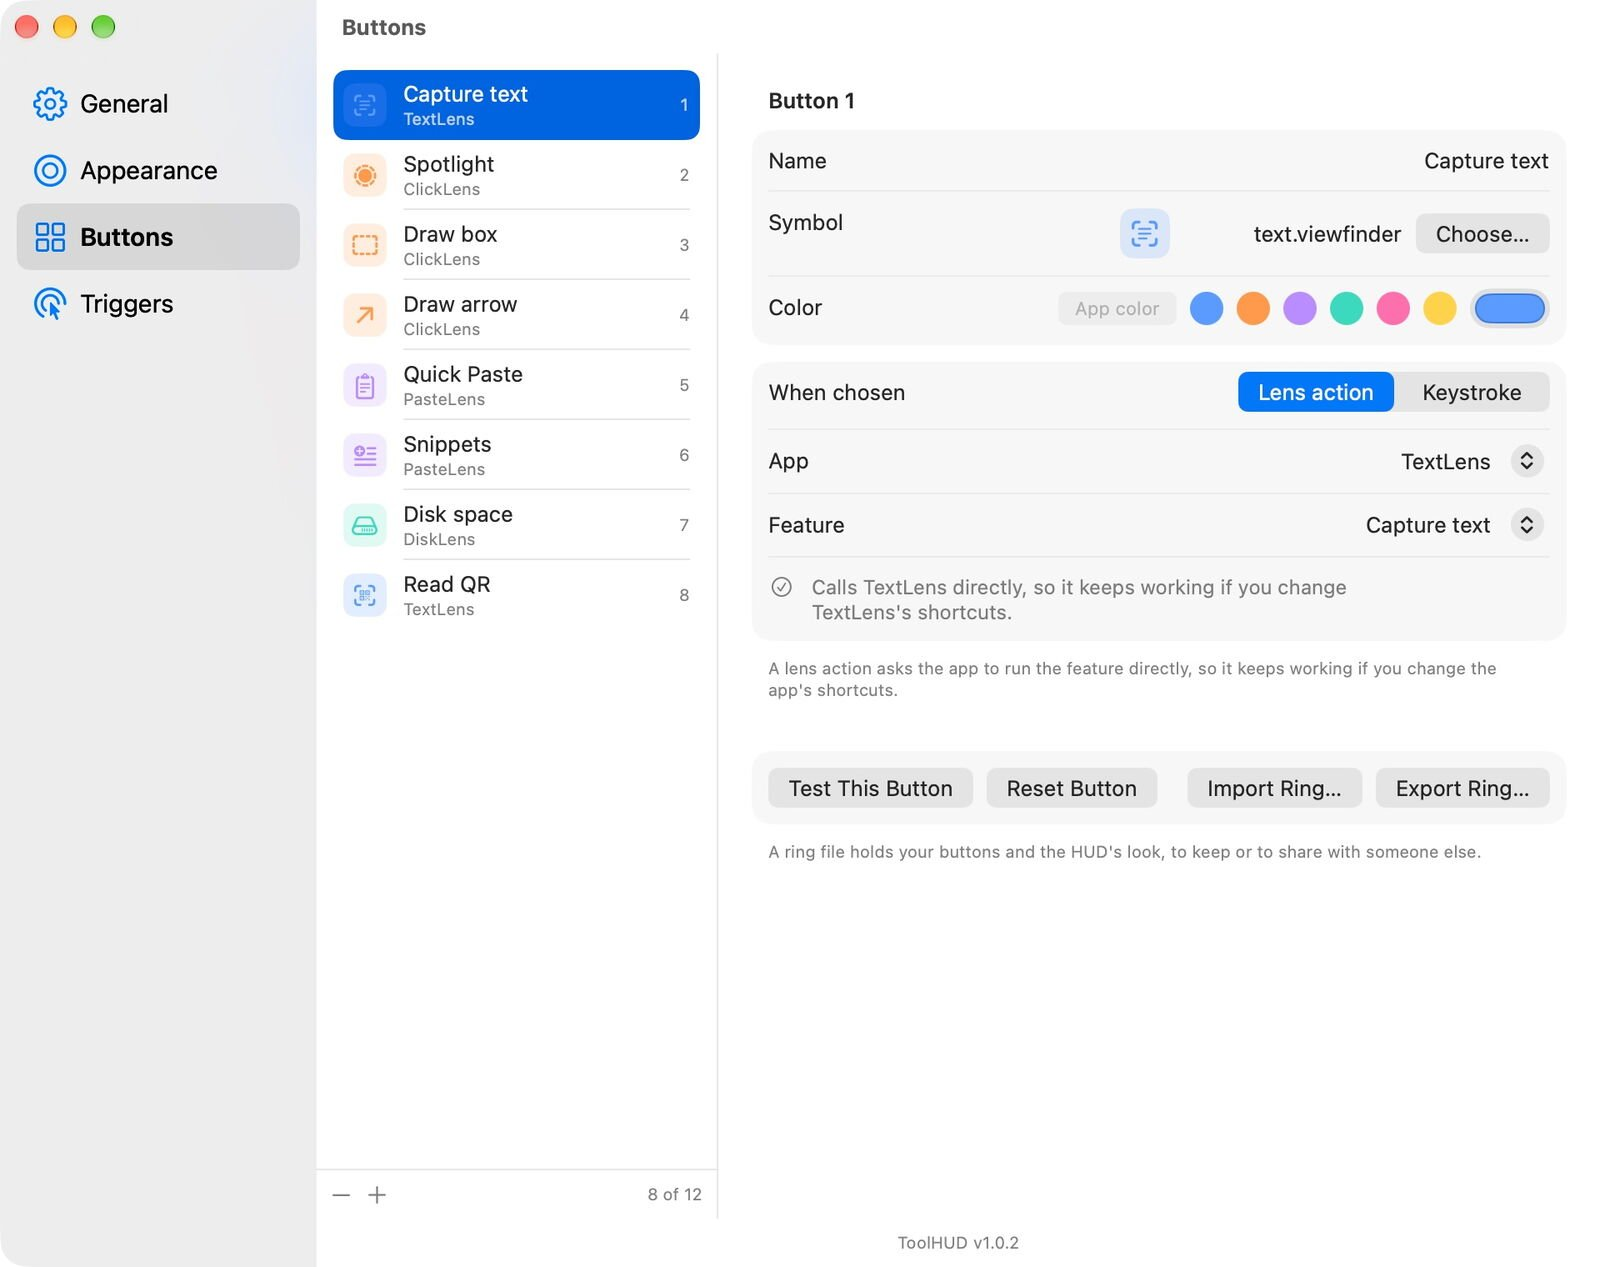
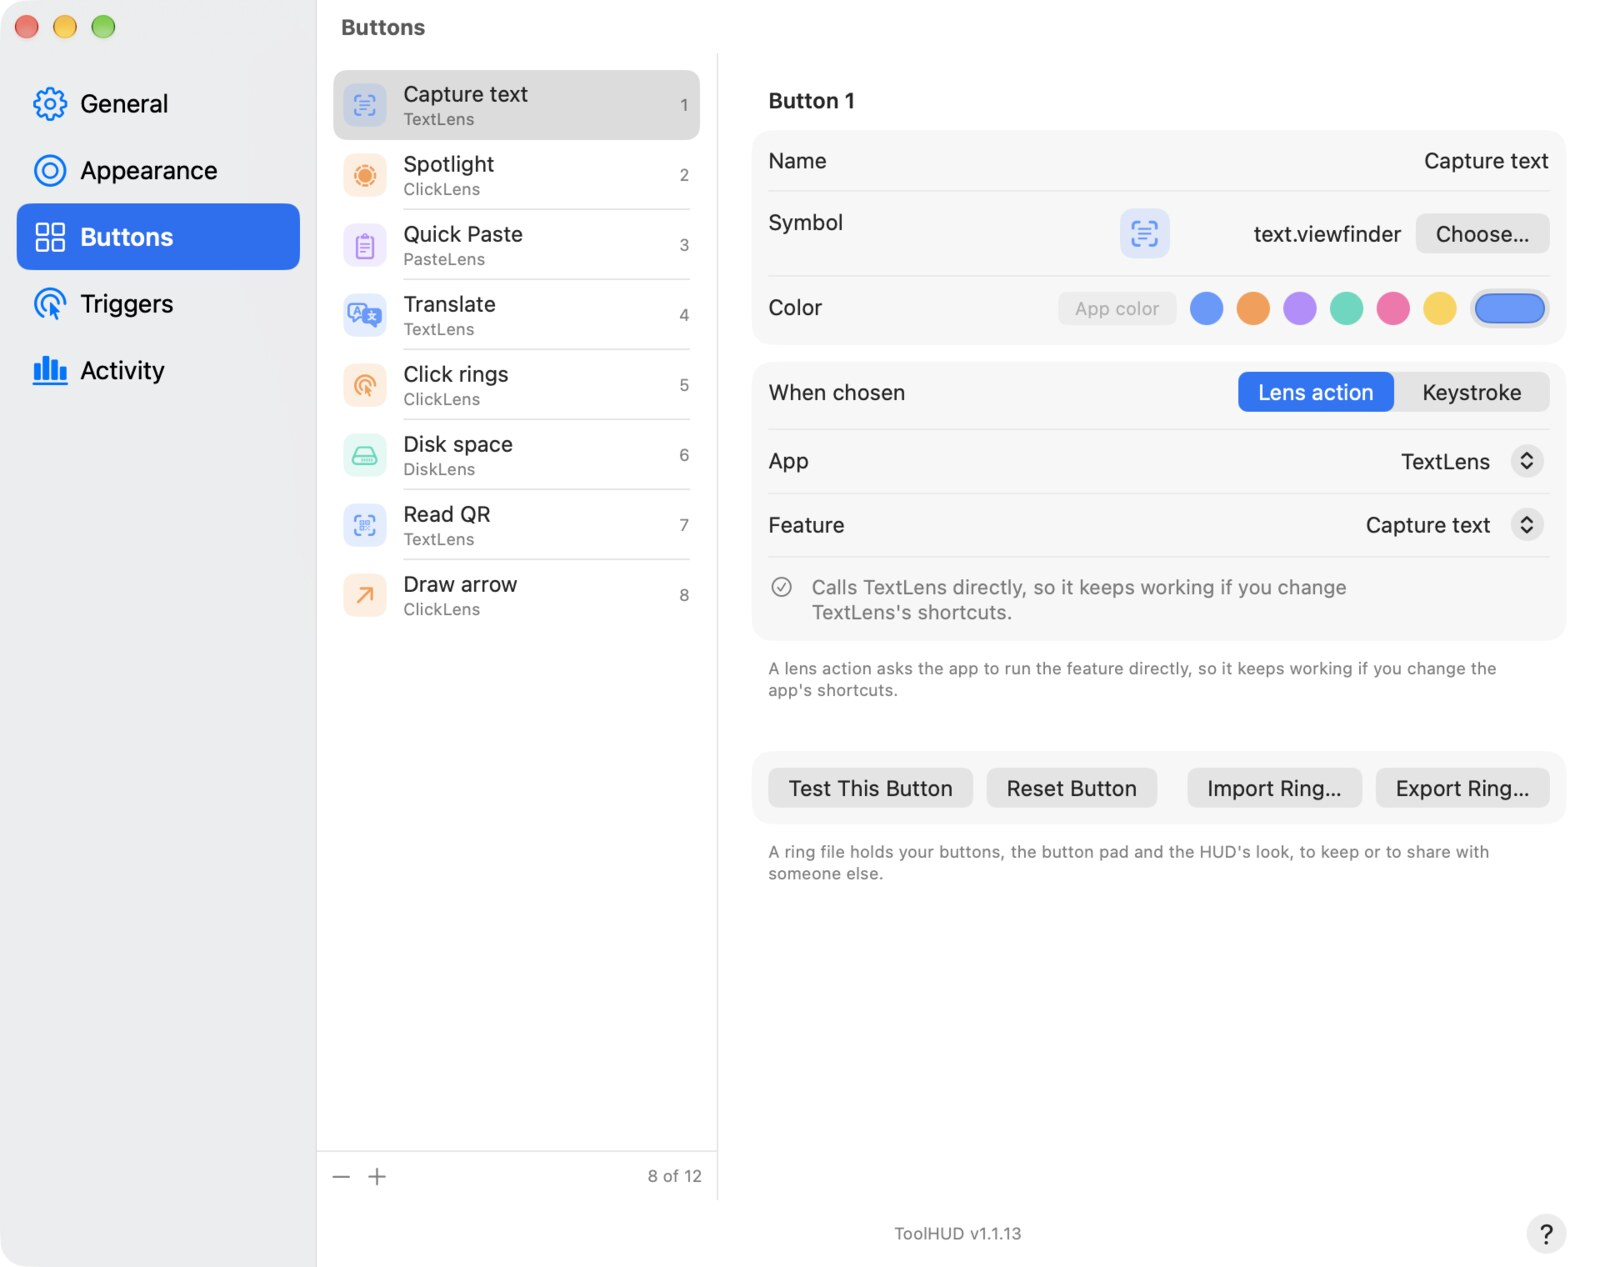
README: retake Buttons and menu hub screenshots for 1.1.13

diff --git a/README.md b/README.md
@@ -45,7 +45,7 @@ Requires macOS 26 or later.
 <td width="50%"><img src="docs/images/toolhud-settings-buttons.jpg" alt="ToolHUD Settings on the Buttons pane, with the button list and the Capture text button set to a TextLens lens action"><br><sub><b>Buttons.</b> Pick an app feature or a keystroke for each button.</sub></td>
 </tr>
 <tr>
-<td width="50%" align="center"><img src="docs/images/toolhud-menu-hub.jpg" width="320" alt="ToolHUD's menu bar menu listing other apps as submenus, with ClickLens's submenu open"><br><sub><b>Your apps' menus.</b> Other apps as submenus of ToolHUD's menu.</sub></td>
+<td width="50%" align="center"><img src="docs/images/toolhud-menu-hub.jpg" width="420" alt="ToolHUD's menu bar menu listing other apps as submenus, with ClickLens's submenu open"><br><sub><b>Your apps' menus.</b> Other apps as submenus of ToolHUD's menu.</sub></td>
 <td width="50%"><img src="docs/images/toolhud-settings-activity.webp" alt="ToolHUD Settings on the Activity pane, with a bar chart of actions over 90 days and totals for three Macs"><br><sub><b>Activity.</b> How many actions you run, on this Mac or all your Macs.</sub></td>
 </tr>
 </table>
